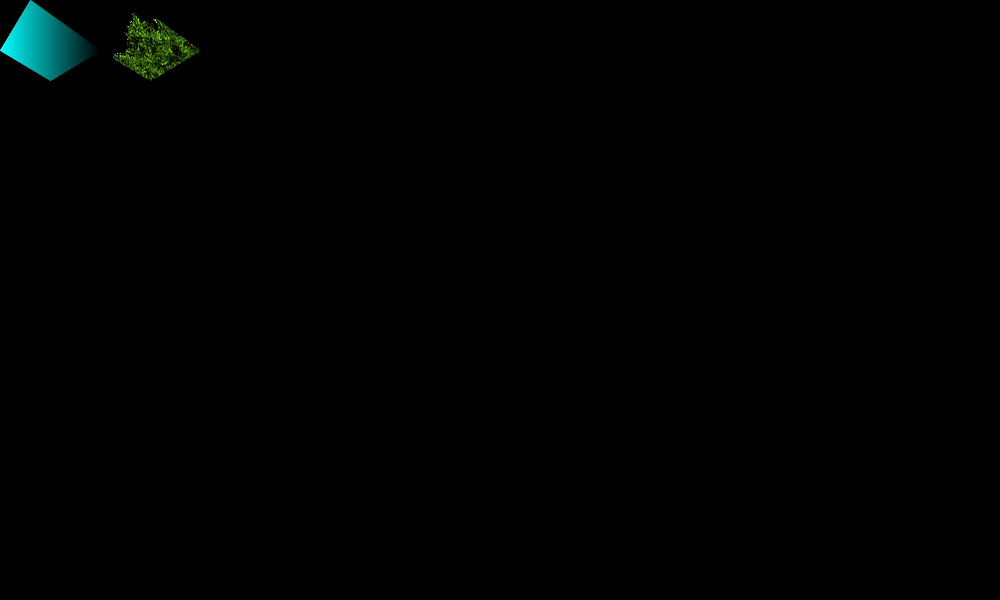
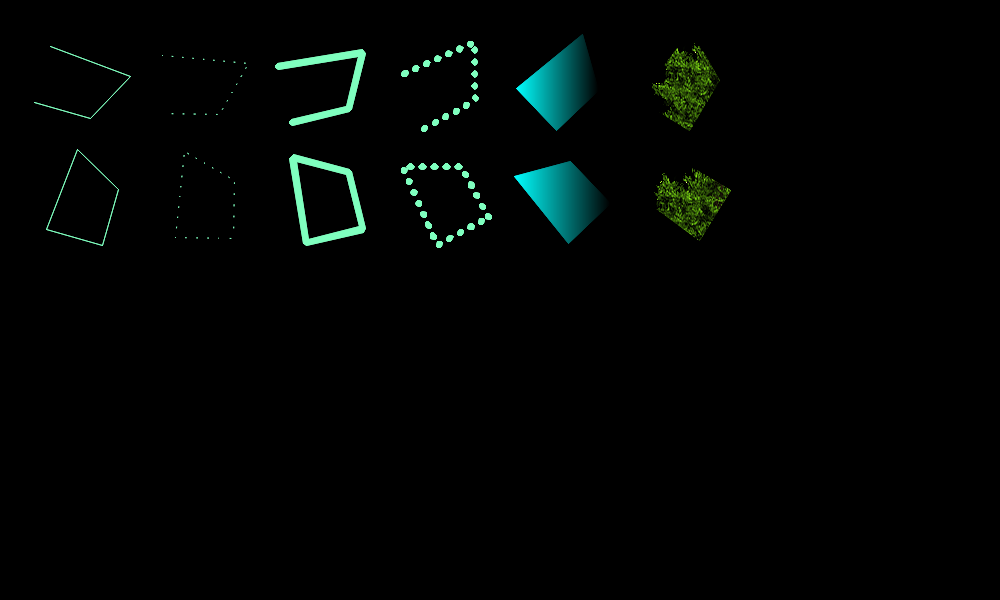
Working on test for Path2D

diff --git a/src/Pt-Gfx/tests/ImagePainterTest2_Draw_Path.cpp b/src/Pt-Gfx/tests/ImagePainterTest2_Draw_Path.cpp
@@ -2,6 +2,11 @@ static void testDrawPath(const char* title, Image& image, Painter& painter, cons
 {
     resetImage(image);
 
+    Pen penThinSolid ( Pen(Color::fromRgb8(127, 255, 191, 175), 1, Pen::Solid, Pen::RoundCap) );
+    Pen penThinDot   ( Pen(Color::fromRgb8(127, 255, 191, 175), 1, Pen::Dot,   Pen::RoundCap) );
+    Pen penThickSolid( Pen(Color::fromRgb8(127, 255, 191, 175), 6, Pen::Solid, Pen::RoundCap) );
+    Pen penThickDot  ( Pen(Color::fromRgb8(127, 255, 191, 175), 6, Pen::Dot,   Pen::RoundCap) );
+
     ImagePainter2* ip2 = dynamic_cast<ImagePainter2*>(dynamic_cast<Painter*>(&painter));
     if(!ip2) return;
 
@@ -17,12 +22,110 @@ static void testDrawPath(const char* title, Image& image, Painter& painter, cons
     path2d.lineTo   (100, 50);
     path2d.lineTo   ( 30,  0);
     path2d.endPath  ();
+
+    matrix2d.translate(-50, -40);
+
+    Pt::int32_t row = 0, col = 0;
+
+    // First row
+    matrix2d.rotateAboutOrigin(15);
+    matrix2d.push();
+    matrix2d.translate(80 + 120 * col, 80 + 120 * row);
+    ip2->setPen(penThinSolid);
+    ip2->drawPath(path2d, matrix2d, false);
+    matrix2d.pop();
+    ++col;
+
+    matrix2d.rotateAboutOrigin(15);
+    matrix2d.push();
+    matrix2d.translate(80 + 120 * col, 80 + 120 * row);
+    ip2->setPen(penThinDot);
+    ip2->drawPath(path2d, matrix2d, false);
+    matrix2d.pop();
+    ++col;
+
+    matrix2d.rotateAboutOrigin(15);
+    matrix2d.push();
+    matrix2d.translate(80 + 120 * col, 80 + 120 * row);
+    ip2->setPen(penThickSolid);
+    ip2->drawPath(path2d, matrix2d, false);
+    matrix2d.pop();
+    ++col;
+
+    matrix2d.rotateAboutOrigin(15);
+    matrix2d.push();
+    matrix2d.translate(80 + 120 * col, 80 + 120 * row);
+    ip2->setPen(penThickDot);
+    ip2->drawPath(path2d, matrix2d, false);
+    matrix2d.pop();
+    ++col;
+
+    matrix2d.rotateAboutOrigin(15);
+    matrix2d.push();
+    matrix2d.translate(80 + 120 * col, 80 + 120 * row);
     ip2->setBrush(brush1);
     ip2->fillPath(path2d, matrix2d);
+    matrix2d.pop();
+    ++col;
 
-    matrix2d.translate(100, 0);
+    matrix2d.rotateAboutOrigin(15);
+    matrix2d.push();
+    matrix2d.translate(80 + 120 * col, 80 + 120 * row);
     ip2->setBrush(brush2);
     ip2->fillPath(path2d, matrix2d);
+    matrix2d.pop();
+    col = 0;
+    ++row;
+
+    // Second row
+    matrix2d.rotateAboutOrigin(15);
+    matrix2d.push();
+    matrix2d.translate(80 + 120 * col, 80 + 120 * row);
+    ip2->setPen(penThinSolid);
+    ip2->drawPath(path2d, matrix2d, true);
+    matrix2d.pop();
+    ++col;
+
+    matrix2d.rotateAboutOrigin(15);
+    matrix2d.push();
+    matrix2d.translate(80 + 120 * col, 80 + 120 * row);
+    ip2->setPen(penThinDot);
+    ip2->drawPath(path2d, matrix2d, true);
+    matrix2d.pop();
+    ++col;
+
+    matrix2d.rotateAboutOrigin(15);
+    matrix2d.push();
+    matrix2d.translate(80 + 120 * col, 80 + 120 * row);
+    ip2->setPen(penThickSolid);
+    ip2->drawPath(path2d, matrix2d, true);
+    matrix2d.pop();
+    ++col;
+
+    matrix2d.rotateAboutOrigin(15);
+    matrix2d.push();
+    matrix2d.translate(80 + 120 * col, 80 + 120 * row);
+    ip2->setPen(penThickDot);
+    ip2->drawPath(path2d, matrix2d, true);
+    matrix2d.pop();
+    ++col;
+
+    matrix2d.rotateAboutOrigin(15);
+    matrix2d.push();
+    matrix2d.translate(80 + 120 * col, 80 + 120 * row);
+    ip2->setBrush(brush1);
+    ip2->fillPath(path2d, matrix2d);
+    matrix2d.pop();
+    ++col;
+
+    matrix2d.rotateAboutOrigin(15);
+    matrix2d.push();
+    matrix2d.translate(80 + 120 * col, 80 + 120 * row);
+    ip2->setBrush(brush2);
+    ip2->fillPath(path2d, matrix2d);
+    matrix2d.pop();
+    col = 0;
+    ++row;
 
     sdlPreviewRGB888Buffer(title, image.data(), image.width(), image.height(), !!ip2);
 }

diff --git a/src/Pt-Gfx/Path2D.cpp b/src/Pt-Gfx/Path2D.cpp
@@ -41,6 +41,17 @@ namespace Gfx {
 // ===== Internal Helper Functions - Generator (Drawing) Functions ======================
 // ======================================================================================
 
+/*
+int r = (int)Math.sqrt((x1-x0)*(x1-x0) + (y1-y0)*(y1-y0));
+int x = x0-r;
+int y = y0-r;
+int width = 2*r;
+int height = 2*r;
+int startAngle = (int) (180/Math.PI*atan2(y1-y0, x1-x0));
+int endAngle = (int) (180/Math.PI*atan2(y2-y0, x2-x0));
+canvas.drawArc(x, y, width, height, startAngle, endAngle);
+*/
+
 // ### TODO ###
 
 

diff --git a/src/Pt-Gfx/tests/ImagePainterTest2.cpp b/src/Pt-Gfx/tests/ImagePainterTest2.cpp
@@ -71,7 +71,7 @@ using namespace Pt::Gfx;
 
 // Detailed-test enable settings for Pt-Gfx
 #define TEST_SOURCECOPY                         1
-#define TEST_SOURCEOVER                         0
+#define TEST_SOURCEOVER                         1
 
 #define TEST_DRAW_SOLID_LINE_AND_TEXT           0 // (including bezier)
 #define TEST_DRAW_PATTERNED_LINE                0 // (including bezier)
